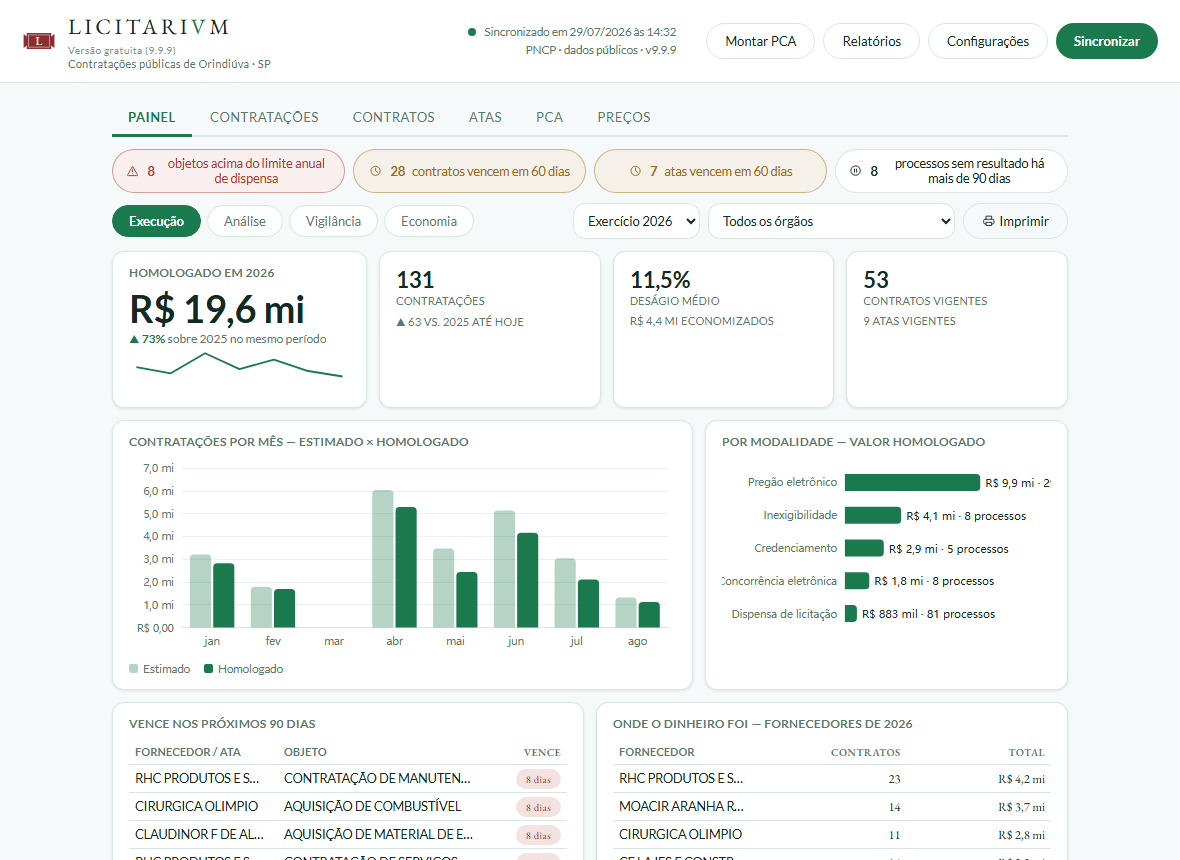
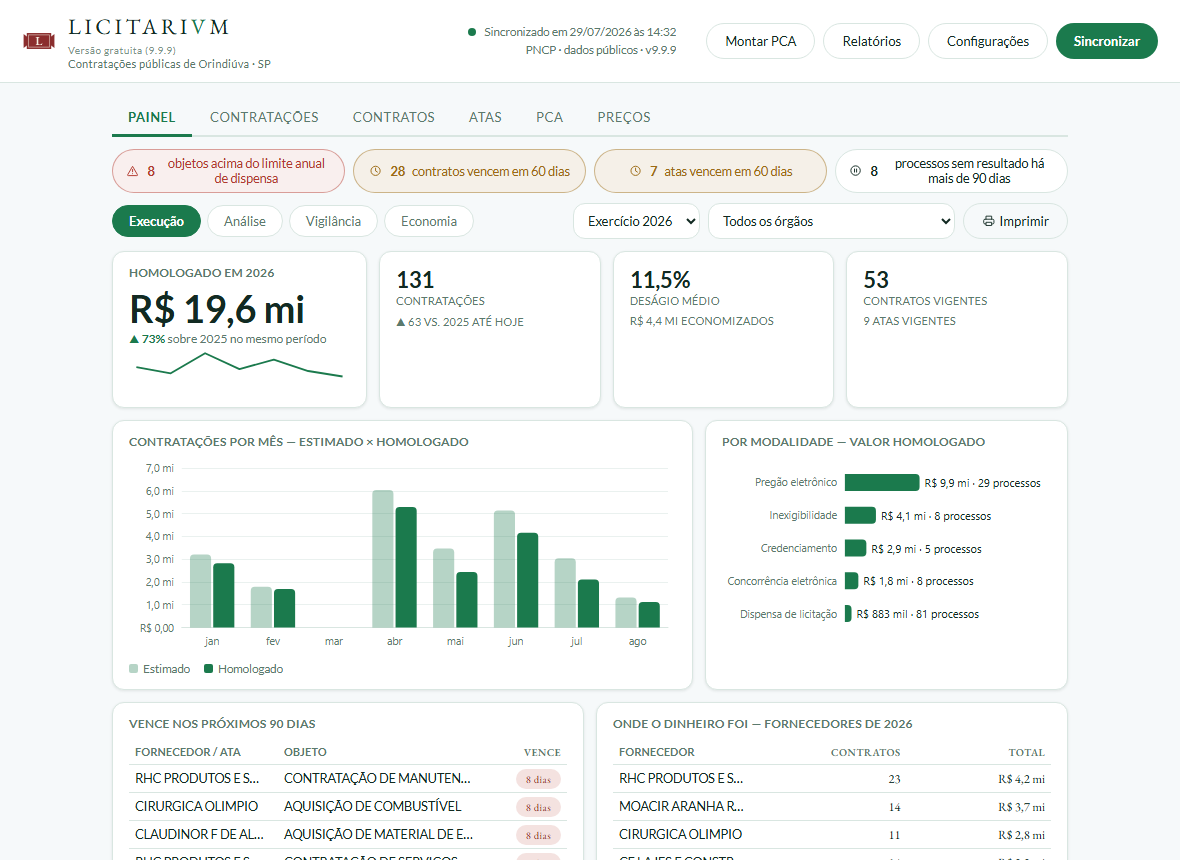
fix: rotulo de grafico nao escapa mais do cartao; botao sai da vista Economia
"Concorrencia - Eletronica" perdia o C na borda e "R$ 7,2 mi - 4 processos"
virava "- 4 proces", na tela e no PDF do painel (que captura o mesmo SVG).

Causa medida no Playwright, contra o painel real: o ECharts reserva espaco
medindo o texto (e o que containLabel usa) e ROT_TXT/VAL_TXT nao declaravam
fontFamily - ele media com a sans-serif padrao e desenhava com a --font-ui
do tema, mais larga, entao a reserva saia 4,1 px curta. A familia passa a
entrar pelo tema no _iniciarEchart, ponto unico dos 9 graficos.

A margem direita era `right: 70` fixo, e containLabel nao conta rotulo de
serie: sai medido do rotulo mais longo (transbordava ate 60,6 px). O rotulo
do eixo ganhou teto - "Servicos de Terceiros - Pessoa Juridica" comia 201 px
de um cartao de 294 e nao sobrava area de plotagem; texto inteiro segue no
tooltip. As pontas "hoje"/"+90 dias" da agenda ancoram para dentro.

Mesma correcao em app.js:desenharBarrasEcharts, que alimenta os relatorios
impressos; ali a familia vai literal, e nao herdada, porque o SVG capturado
vai parar num documento com CSS proprio.

Teste novo varre as 4 vistas e falha se qualquer texto ultrapassar a borda
do cartao; as 4 correcoes foram neutralizadas uma a uma e o teste mordeu nas
4. Medicao antes/depois: 6 graficos com transbordo -> nenhum.

Botao "Relatorio de economia e comparativos" sai da vista Economia a pedido
do usuario: duplicava a aba Relatorios e, por estar dentro da vista, era
[…]

Changed region(s): [[0.6102, 0.5442, 0.8847, 0.7256], [0.122, 0.5442, 0.1525, 0.7558], [0.6407, 0.5442, 0.7017, 0.6047]]

diff --git a/MANUAL.html b/MANUAL.html
@@ -2,11 +2,11 @@
 <html lang="pt-BR">
 <head>
 <meta charset="utf-8">
-<title>Manual Operacional — Licitarium Free v1.36.0</title>
+<title>Manual Operacional — Licitarium Free v1.37.0</title>
 <style>
   @page {
     size: A4; margin: 2cm 1.8cm;
-    @top-center { content: "Licitarium Free v1.36.0 — Manual Operacional"; font-size: 9pt; color: #6f5b3e; }
+    @top-center { content: "Licitarium Free v1.37.0 — Manual Operacional"; font-size: 9pt; color: #6f5b3e; }
     @bottom-right { content: "Página " counter(page) " de " counter(pages);
                     font-size: 9pt; color: #6f5b3e; }
   }
@@ -155,7 +155,7 @@
     <path d="M21.22 61.67Q21.16 61.67 21.12 61.65Q21.09 61.64 21.09 61.61Q21.09 61.58 21.13 61.56Q21.17 61.54 21.23 61.53Q21.35 61.5 21.42 61.41Q21.5 61.32 21.52 61.17Q21.57 60.82 21.61 60.47Q21.64 60.11 21.67 59.79Q21.7 59.47 21.71 59.22Q21.71 59.19 21.71 59.14Q21.71 59.1 21.71 59.06Q21.7 59.01 21.69 58.97Q21.67 58.93 21.62 58.89Q21.55 58.83 21.47 58.81Q21.4 58.78 21.3 58.76Q21.26 58.75 21.23 58.73Q21.2 58.7 21.2 58.67Q21.2 58.63 21.24 58.62Q21.28 58.61 21.34 58.61Q21.4 58.61 21.49 58.61Q21.59 58.62 21.71 58.63Q21.82 58.63 21.93 58.64Q22.03 58.64 22.1 58.64Q22.14 58.64 22.16 58.66Q22.19 58.69 22.2 58.72Q22.22 58.81 22.25 58.89Q22.27 58.98 22.31 59.07L23.02 60.84Q23.03 60.87 23.06 60.88Q23.09 60.88 23.11 60.85L23.93 59.08Q23.96 58.98 23.98 58.88Q24 58.78 24.02 58.71Q24.03 58.65 24.07 58.65H24.25Q24.41 58.64 24.59 58.63Q24.76 58.61 24.85 58.61Q24.89 58.61 24.92 58.62Q24.96 58.63 24.96 58.66Q24.96 58.7 24.93 58.71Q24.9 58.73 24.84 58.76Q24.79 58.77 24.73 58.8Q24.67 58.82 24.62 58.84Q24.55 58.88 24.51 58.93Q24.46 58.98 24.47 59.07Q24.47 59.4 24.48 59.67Q24.5 59.94 24.51 60.19Q24.52 60.43 24.54 60.68Q24.56 60.93 24.57 61.2Q24.58 61.34 24.67 61.41Q24.75 61.49 24.92 61.52Q24.98 61.54 25.02 61.56Q25.05 61.57 25.05 61.61Q25.05 61.64 25.02 61.65Q24.99 61.67 24.93 61.67Q24.82 61.67 24.72 61.66Q24.62 61.65 24.53 61.65Q24.43 61.64 24.33 61.64Q24.24 61.64 24.16 61.65Q24.08 61.65 23.99 61.66Q23.9 61.67 23.78 61.67Q23.73 61.67 23.7 61.65Q23.66 61.64 23.66 61.61Q23.66 61.58 23.7 61.55Q23.73 61.53 23.8 61.52Q23.95 61.5 24 61.43Q24.06 61.36 24.06 61.2Q24.05 60.88 24.04 60.61Q24.04 60.34 24.02 60.07Q24.01 59.8 24 59.51Q23.99 59.46 23.97 59.47Q23.95 59.47 23.93 59.51L22.93 61.66Q22.92 61.7 22.88 61.7Q22.84 61.69 22.83 61.66Q22.63 61.12 22.41 60.59Q22.19 60.07 21.95 59.5Q21.94 59.47 21.91 59.47Q21.89 59.47 21.88 59.51Q21.85 59.8 21.83 60.07Q21.8 60.34 21.79 60.61Q21.78 60.88 21.78 61.17Q21.78 61.3 21.86 61.39Q21.94 61.49 22.09 61.52Q22.16 61.54 22.2 61.55Q22.24 61.57 22.24 61.61Q22.24 61.64 22.2 61.65Q22.16 61.67 22.11 61.67Q21.99 61.67 21.92 61.66Q21.86 61.65 21.81 61.65Q21.75 61.65 21.66 61.65Q21.57 61.65 21.51 61.65Q21.44 61.66 21.37 61.66Q21.3 61.67 21.22 61.67ZM25.84 61.67Q25.78 61.67 25.75 61.65Q25.72 61.64 25.72 61.61Q25.72 61.58 25.75 61.56Q25.79 61.54 25.86 61.53Q25.97 61.5 26.05 61.41Q26.13 61.32 26.15 61.17Q26.19 60.82 26.23 60.47Q26.27 60.11 26.3 59.79Q26.32 59.47 26.33 59.22Q26.34 59.19 26.34 59.14Q26.34 59.1 26.33 59.06Q26.33 59.01 26.31 58.97Q26.3 58.93 26.25 58.89Q26.17 58.83 26.1 58.81Q26.03 58.78 25.93 58.76Q25.88 58.75 25.85 58.73Q25.82 58.7 25.82 58.67Q25.82 58.63 25.86 58.62Q25.91 58.61 25.97 58.61Q26.02 58.61 26.12 58.61Q26.22 58.62 26.33 58.63Q26.45 58.63 26.56 58.64Q26.66 58.64 26.73 58.64Q26.76 58.64 26.79 58.66Q26.82 58.69 26.82 58.72Q26.85 58.81 26.88 58.89Q26.9 58.98 26.93 59.07L27.65 60.84Q27.66 60.87 27.69 60.88Q27.72 60.88 27.73 60.85L28.56 59.08Q28.58 58.98 28.61 58.88Q28.63 58.78 28.64 58.71Q28.66 58.65 28.7 58.65H28.88Q29.04 58.64 29.21 58.63Q29.39 58.61 29.48 58.61Q29.51 58.61 29.55 58.62Q29.59 58.63 29.59 58.66Q29.59 58.7 29.56 58.71Q29.53 58.73 29.47 58.76Q29.42 58.77 29.36 58.8Q29.3 58.82 29.25 58.84Q29.17 58.88 29.13 58.93Q29.09 58.98 29.09 59.07Q29.1 59.4 29.11 59.67Q29.12 59.94 29.14 60.19Q29.15 60.43 29.17 60.68Q29.18 60.93 29.2 61.2Q29.21 61.34 29.3 61.41Q29.38 61.49 29.54 61.52Q29.61 61.54 29.65 61.56Q29.68 61.57 29.68 61.61Q29.68 61.64 29.65 61.65Q29.61 61.67 29.56 61.67Q29.44 61.67 29.34 61.66Q29.25 61.65 29.15 61.65Q29.06 61.64 28.96 61.64Q28.87 61.64 28.79 61.65Q28.71 61.65 28.62 61.66Q28.53 61.67 28.41 61.67Q28.36 61.67 28.32 61.65Q28.29 61.64 28.29 61.61Q28.29 61.58 28.32 61.55Q28.36 61.53 28.43 61.52Q28.57 61.5 28.63 61.43Q28.68 61.36 28.68 61.2Q28.68 60.88 28.67 60.61Q28.66 60.34 28.65 60.07Q28.64 59.8 28.63 59.51Q28.62 59.46 28.6 59.47Q28.58 59.47 28.56 59.51L27.56 61.66Q27.55 61.7 27.51 61.7Q27.47 61.69 27.46 61.66Q27.26 61.12 27.04 60.59Q26.82 60.07 26.58 59.5Q26.57 59.47 26.54 59.47Q26.52 59.47 26.51 59.51Q26.48 59.8 26.45 60.07Q26.43 60.34 26.42 60.61Q26.41 60.88 26.41 61.17Q26.41 61.3 26.49 61.39Q26.57 61.49 26.72 61.52Q26.79 61.54 26.83 61.55Q26.87 61.57 26.87 61.61Q26.87 61.64 26.83 61.65Q26.79 61.67 26.74 61.67Q26.61 61.67 26.55 61.66Q26.48 61.65 26.43 61.65Q26.38 61.65 26.29 61.65Q26.2 61.65 26.13 61.65Q26.07 61.66 26 61.66Q25.93 61.67 25.84 61.67ZM30.37 61.67Q30.31 61.67 30.27 61.66Q30.23 61.65 30.23 61.61Q30.23 61.58 30.27 61.56Q30.31 61.54 30.37 61.51Q30.46 61.49 30.57 61.44Q30.67 61.38 30.79 61.29Q30.9 61.2 31 61.07L31.58 60.35Q31.63 60.28 31.64 60.21Q31.66 60.14 31.59 60.05L30.96 59.16Q30.86 59.03 30.79 58.95Q30.71 58.87 30.63 58.83Q30.56 58.8 30.48 58.77Q30.41 58.75 30.37 58.73Q30.34 58.71 30.34 58.67Q30.34 58.64 30.37 58.63Q30.41 58.62 30.46 58.62Q30.61 58.62 30.81 58.63Q31.01 58.64 31.2 58.64Q31.34 58.64 31.47 58.63Q31.61 58.62 31.7 58.62Q31.75 58.62 31.79 58.64Q31.83 58.65 31.83 58.68Q31.83 58.72 31.79 58.74Q31.75 58.76 31.69 58.78Q31.56 58.81 31.5 58.84Q31.44 58.87 31.44 58.93Q31.44 59 31.56 59.18L31.99 59.77Q32.04 59.84 32.07 59.84Q32.1 59.84 32.14 59.78L32.59 59.18Q32.65 59.1 32.68 59.04Q32.71 58.98 32.71 58.93Q32.71 58.88 32.66 58.84Q32.61 58.8 32.5 58.78Q32.46 58.77 32.4 58.74Q32.35 58.72 32.35 58.68Q32.35 58.65 32.39 58.64Q32.43 58.63 32.49 58.63Q32.56 58.63 32.62 58.63Q32.68 58.63 32.74 58.63Q32.81 58.64 32.88 58.64Q33.02 58.64 33.15 58.62Q33.28 58.61 33.39 58.61Q33.45 58.61 33.49 58.62Q33.53 58.63 33.53 58.67Q33.53 58.7 33.49 58.72Q33.45 58.74 33.38 58.76Q33.26 58.79 33.12 58.93Q32.97 59.06 32.85 59.21L32.28 59.9Q32.22 59.97 32.21 60.01Q32.2 60.04 32.23 60.1L32.97 61.16Q33.06 61.29 33.18 61.39Q33.29 61.48 33.41 61.51Q33.48 61.53 33.52 61.55Q33.57 61.58 33.57 61.61Q33.57 61.64 33.53 61.66Q33.49 61.67 33.44 61.67Q33.33 61.67 33.21 61.66Q33.08 61.66 32.94 61.65Q32.81 61.64 32.69 61.64Q32.55 61.64 32.42 61.65Q32.29 61.65 32.19 61.65Q32.13 61.65 32.09 61.64Q32.05 61.62 32.05 61.59Q32.05 61.56 32.1 61.53Q32.15 61.51 32.2 61.5Q32.28 61.48 32.35 61.43Q32.42 61.38 32.42 61.29Q32.42 61.26 32.41 61.23Q32.4 61.19 32.37 61.16L31.89 60.45Q31.84 60.39 31.81 60.38Q31.78 60.38 31.75 60.43L31.19 61.17Q31.16 61.22 31.14 61.26Q31.13 61.3 31.13 61.33Q31.14 61.39 31.19 61.44Q31.25 61.49 31.34 61.51Q31.41 61.52 31.45 61.54Q31.49 61.57 31.49 61.6Q31.49 61.63 31.45 61.64Q31.42 61.66 31.36 61.66Q31.27 61.66 31.15 61.65Q31.03 61.65 30.92 61.65Q30.77 61.65 30.63 61.66Q30.49 61.67 30.37 61.67ZM34.14 61.67Q34.08 61.67 34.04 61.66Q34 61.65 34 61.61Q34 61.58 34.04 61.56Q34.08 61.54 34.14 61.51Q34.23 61.49 34.34 61.44Q34.44 61.38 34.56 61.29Q34.67 61.2 34.77 61.07L35.35 60.35Q35.4 60.28 35.41 60.21Q35.43 60.14 35.36 60.05L34.73 59.16Q34.63 59.03 34.56 58.95Q34.48 58.87 34.4 58.83Q34.33 58.8 34.25 58.77Q34.18 58.75 34.14 58.73Q34.11 58.71 34.11 58.67Q34.11 58.64 34.14 58.63Q34.18 58.62 34.23 58.62Q34.38 58.62 34.58 58.63Q34.78 58.64 34.97 58.64Q35.11 58.64 35.24 58.63Q35.38 58.62 35.47 58.62Q35.52 58.62 35.56 58.64Q35.6 58.65 35.6 58.68Q35.6 58.72 35.56 58.74Q35.52 58.76 35.46 58.78Q35.33 58.81 35.27 58.84Q35.21 58.87 35.21 58.93Q35.21 59 35.33 59.18L35.76 59.77Q35.81 59.84 35.84 59.84Q35.87 59.84 35.91 59.78L36.36 59.18Q36.42 59.1 36.45 59.04Q36.48 58.98 36.48 58.93Q36.48 58.88 36.43 58.84Q36.38 58.8 36.27 58.78Q36.23 58.77 36.18 58.74Q36.12 58.72 36.12 58.68Q36.12 58.65 36.16 58.64Q36.2 58.63 36.26 58.63Q36.33 58.63 36.39 58.63Q36.45 58.63 36.51 58.63Q36.58 58.64 36.65 58.64Q36.79 58.64 36.92 58.62Q37.05 58.61 37.16 58.61Q37.22 58.61 37.26 58.62Q37.3 58.63 37.3 58.67Q37.3 58.7 37.26 58.72Q37.22 58.74 37.15 58.76Q37.03 58.79 36.89 58.93Q36.74 59.06 36.62 59.21L36.05 59.9Q35.99 59.97 35.98 60.01Q35.97 60.04 36 60.1L36.74 61.16Q36.83 61.29 36.95 61.39Q37.06 61.48 37.18 61.51Q37.25 61.53 37.29 61.55Q37.34 61.58 37.34 61.61Q37.34 61.64 37.3 61.66Q37.26 61.67 37.21 61.67Q37.1 61.67 36.98 61.66Q36.85 61.66 36.71 61.65Q36.58 61.64 36.46 61.64Q36.32 61.64 36.19 61.65Q36.06 61.65 35.96 61.65Q35.9 61.65 35.86 61.64Q35.82 61.62 35.82 61.59Q35.82 61.56 35.87 61.53Q35.92 61.51 35.97 61.5Q36.05 61.48 36.12 61.43Q36.2 61.38 36.2 61.29Q36.2 61.26 36.18 61.23Q36.17 61.19 36.14 61.16L35.66 60.45Q35.61 60.39 35.58 60.38Q35.55 60.38 35.52 60.43L34.96 61.17Q34.93 61.22 34.91 61.26Q34.9 61.3 34.9 61.33Q34.91 61.39 34.96 61.44Q35.02 61.49 35.11 61.51Q35.18 61.52 35.22 61.54Q35.26 61.57 35.26 61.6Q35.26 61.63 35.22 61.64Q35.19 61.66 35.13 61.66Q35.04 61.66 34.92 61.65Q34.8 61.65 34.69 61.65Q34.54 61.65 34.4 61.66Q34.26 61.67 34.14 61.67ZM39.32 61.71Q39.27 61.71 39.25 61.66Q39.23 61.61 39.19 61.51Q39.16 61.41 39.13 61.34L38.26 59.11Q38.21 58.99 38.14 58.9Q38.06 58.81 37.93 58.78Q37.87 58.76 37.83 58.74Q37.79 58.71 37.79 58.68Q37.79 58.65 37.83 58.63Q37.86 58.62 37.92 58.62Q38 58.62 38.1 58.63Q38.2 58.63 38.31 58.63Q38.42 58.64 38.52 58.64Q38.61 58.64 38.72 58.63Q38.82 58.63 38.92 58.63Q39.02 58.62 39.08 58.62Q39.13 58.62 39.17 58.64Q39.21 58.65 39.21 58.68Q39.21 58.72 39.17 58.74Q39.13 58.77 39.07 58.78Q38.93 58.79 38.85 58.84Q38.78 58.88 38.78 58.96Q38.78 59.02 38.79 59.07Q38.81 59.12 38.82 59.15L39.46 60.88Q39.47 60.9 39.48 60.91Q39.5 60.91 39.51 60.87L40.11 59.3Q40.2 59.05 40.13 58.93Q40.06 58.8 39.89 58.78Q39.83 58.77 39.79 58.74Q39.74 58.72 39.74 58.68Q39.74 58.65 39.78 58.64Q39.82 58.63 39.88 58.63Q39.95 58.63 40.02 58.63Q40.09 58.63 40.17 58.63Q40.24 58.64 40.33 58.64Q40.47 58.64 40.61 58.63Q40.75 58.62 40.85 58.62Q40.91 58.62 40.95 58.63Q40.99 58.64 40.99 58.68Q40.99 58.71 40.95 58.73Q40.91 58.75 40.84 58.77Q40.68 58.81 40.58 58.92Q40.47 59.04 40.41 59.19L39.59 61.15Q39.56 61.23 39.52 61.32Q39.49 61.41 39.45 61.5Q39.42 61.59 39.38 61.66Q39.38 61.69 39.36 61.7Q39.34 61.71 39.32 61.71ZM41.59 61.67Q41.54 61.67 41.51 61.65Q41.47 61.64 41.47 61.61Q41.47 61.55 41.61 61.52Q41.78 61.49 41.87 61.42Q41.95 61.35 41.95 61.19V59.1Q41.95 58.94 41.89 58.87Q41.82 58.81 41.64 58.77Q41.51 58.75 41.51 58.68Q41.51 58.65 41.54 58.63Q41.58 58.62 41.63 58.62Q41.75 58.62 41.84 58.63Q41.93 58.63 42.02 58.63Q42.11 58.64 42.21 58.64Q42.31 58.64 42.4 58.63Q42.48 58.63 42.57 58.63Q42.66 58.62 42.78 58.62Q42.83 58.62 42.86 58.63Q42.9 58.65 42.9 58.68Q42.9 58.71 42.86 58.74Q42.83 58.76 42.76 58.77Q42.59 58.81 42.51 58.88Q42.44 58.94 42.44 59.1V61.19Q42.44 61.35 42.53 61.42Q42.61 61.48 42.79 61.52Q42.86 61.54 42.89 61.56Q42.92 61.57 42.92 61.61Q42.92 61.64 42.89 61.65Q42.86 61.67 42.81 61.67Q42.69 61.67 42.59 61.66Q42.5 61.65 42.41 61.65Q42.32 61.64 42.21 61.64Q42.1 61.64 42.01 61.65Q41.91 61.65 41.81 61.66Q41.71 61.67 41.59 61.67Z" fill="var(--text)" opacity=".85"/>
   </svg>
   <h1 class="mark">LICITARI<b>V</b>M</h1>
-  <div class="subtitulo">MANUAL DO USUÁRIO · VERSÃO 1.36.0</div>
+  <div class="subtitulo">MANUAL DO USUÁRIO · VERSÃO 1.37.0</div>
 </header>
 
 <h2>1. O que é o Licitarium</h2>
@@ -170,7 +170,7 @@ sincronizado e se atualiza sozinho a cada abertura. O Licitarium apenas
 <h2>2. Instalação</h2>
 <h3>Pelo executável (recomendado)</h3>
 <ol>
-  <li>Baixe o <code>Licitarium.Free.v1.36.0.exe</code> na página de releases do
+  <li>Baixe o <code>Licitarium.Free.v1.37.0.exe</code> na página de releases do
       projeto — o nome do arquivo traz a versão, então dá para saber qual
       você tem sem abrir o programa.</li>
   <li>Execute. Não precisa instalar, nem ter Python, nem direitos de administrador.</li>

diff --git a/ui/painel.js b/ui/painel.js
@@ -139,9 +139,28 @@ function ligarTooltips() {
 // ── ECharts: estilos de texto compartilhados, mesmos valores das classes
 // .rot/.val/.eixo de estilo.css — o SVG do ECharts não carrega classe CSS
 // (sai com style="" inline), então o valor precisa ir explícito aqui.
+// A família **precisa** ir junto: o ECharts mede o texto para reservar
+// espaço (é o que `containLabel` usa) com a fonte que ele acha que vale, e
+// sem `fontFamily` explícito ele calcula sobre a sans-serif padrão enquanto
+// o SVG desenha com a `--font-ui` do tema, mais larga. A reserva saía menor
+// que o rótulo e o "C" de "Concorrência - Eletrônica" era comido pela borda
+// do cartão — na tela e no PDF do painel, que captura o mesmo SVG.
+// Lida na hora de desenhar, não no carregamento: trocar de tema troca a
+// fonte, e o painel se redesenha inteiro nessa troca.
+const _fonteUI = () => getComputedStyle(document.body).fontFamily;
 const ROT_TXT = { fontSize: 10.5, color: "var(--muted)" };
 const VAL_TXT = { fontSize: 11, color: "var(--text)" };
 const COR_EIXO = "var(--border)";
+
+// Largura real de um texto, para dimensionar margem que `containLabel` não
+// cobre: rótulo de série (`label.position`) fica FORA da conta dele, então
+// `grid.right` fixo é chute — e chute errado corta "…· 4 processos".
+function _larguraTexto(txt, px) {
+  const ctx = (_larguraTexto._ctx ??=
+    document.createElement("canvas").getContext("2d"));
+  ctx.font = `${px}px ${_fonteUI()}`;
+  return ctx.measureText(txt).width;
+}
 
 // x/y do evento nativo do ECharts — mesma assinatura que mostrarTt já espera
 // (clientX, clientY), pra reusar o tooltip único sem reescrevê-lo.
@@ -155,7 +174,11 @@ function _ptEvento(params) {
 // uma só variável faria o dispose() de um derrubar o outro
 function _iniciarEchart(el) {
   if (el.__echart) { el.__echart.dispose(); el.__echart = null; }
-  const chart = echarts.init(el, null, { renderer: "svg" });
+  // A família entra como tema (ponto único), não gráfico a gráfico — ver o
+  // comentário de _fonteUI: sem ela o ECharts reserva espaço medindo com a
+  // sans-serif padrão e desenha com a fonte do tema, que é mais larga.
+  const chart = echarts.init(el, { textStyle: { fontFamily: _fonteUI() } },
+                             { renderer: "svg" });
   el.__echart = chart;
   return chart;
 }
@@ -215,15 +238,31 @@ function grafBarras(el, itens, {valor, rotulo, sub, cor = "var(--s1)"}, larg = 3
   }
   el.style.height = Math.max(120, itens.length * 36 + 20) + "px";
   const chart = _iniciarEchart(el);
+  const rotulosValor = itens.map(
+    it => compacto(valor(it)) + (sub ? " · " + sub(it) : ""));
+  // 5 px é a distância padrão entre o fim da barra e o rótulo; +3 de folga
+  // para o arredondamento da medição não deixar o último caractere na borda
+  const folgaDireita = Math.ceil(Math.max(
+    ...rotulosValor.map(t => _larguraTexto(t, VAL_TXT.fontSize)))) + 8;
+  // o que sobra do cartão depois do valor, com um terço reservado à barra:
+  // sem esse teto o rótulo do eixo cresce até engolir a área de plotagem
+  const larguraRotulo = Math.max(
+    64, Math.floor((el.clientWidth - folgaDireita) * 0.62));
   chart.setOption({
     animation: false,
-    grid: { left: 4, right: 70, top: 8, bottom: 8, containLabel: true },
+    grid: { left: 4, right: folgaDireita, top: 8, bottom: 8,
+            containLabel: true },
     xAxis: { type: "value", show: false },
     yAxis: { type: "category", inverse: true, data: itens.map(it => rotulo(it) ?? "–"),
-      axisLine: { show: false }, axisTick: { show: false }, axisLabel: ROT_TXT },
+      axisLine: { show: false }, axisTick: { show: false },
+      // Teto no rótulo do eixo: "Serviços de Terceiros - Pessoa Jurídica"
+      // sozinho comia 201 px de um cartão de 294 e não sobrava área de
+      // plotagem nenhuma — as barras sumiam e os valores caíam fora do
+      // cartão. O texto inteiro continua no tooltip do hover.
+      axisLabel: { ...ROT_TXT, width: larguraRotulo, overflow: "truncate" } },
     series: [{ type: "bar", barWidth: 17,
-      data: itens.map(it => ({ value: valor(it) || 0,
-        _rotuloValor: compacto(valor(it)) + (sub ? " · " + sub(it) : ""),
+      data: itens.map((it, i) => ({ value: valor(it) || 0,
+        _rotuloValor: rotulosValor[i],
         itemStyle: { color: cor, borderRadius: [0, 4, 4, 0] } })),
       emphasis: { disabled: true },
       label: { show: true, position: "right", ...VAL_TXT,
@@ -683,8 +722,12 @@ function grafAgenda(el, itens) {
 
   let g = `<line x1="${pxX(0)}" y1="${yBase}" x2="${pxX(90)}" y2="${yBase}"
              class="eixo" stroke-width="2"/>`;
+  // As duas pontas ancoram para dentro: centralizadas em pxX(0)/pxX(90),
+  // que são as bordas da grade, metade do "hoje" e do "+90 dias" caía fora
+  // do cartão. As marcas do meio seguem centralizadas no ponto.
   [0, 30, 60, 90].forEach(d =>
-    g += `<text class="rot" x="${pxX(d)}" y="${yBase + 30}" text-anchor="middle"
+    g += `<text class="rot" x="${pxX(d)}" y="${yBase + 30}"
+           text-anchor="${d === 0 ? "start" : d === 90 ? "end" : "middle"}"
            >${d ? `+${d} dias` : "hoje"}</text>`);
   // Largura estimada de cada caractere do rótulo (.val, 11px, maiúsculas —
   // texto em caixa alta é mais largo por caractere que caixa mista comum).
@@ -946,12 +989,7 @@ function vistaEconomia(d) {
            `Agrupado pelo CNPJ/CPF, não pelo nome — a mesma empresa aparece
             com grafias diferentes entre processos. Deságio alto não é
             atestado de bom fornecedor: pode ser estimativa inflada na
-            origem. Leia junto com a pesquisa de preços.`)}
-  <div class="macoes">
-    <button class="btn ghost" id="economia-relatorio">Relatório de economia
-      e comparativos</button>
-    <span class="dim" id="economia-status" role="status"></span>
-  </div>`;
+            origem. Leia junto com a pesquisa de preços.`)}`;
 }
 
 // ══ ciclo de vida ═════════════════════════════════════════════════════════
@@ -995,16 +1033,6 @@ async function carregarPainel() {
   $("p-analise").innerHTML = vistaAnalise(dados);
   $("p-vigilancia").innerHTML = vistaVigilancia(dados);
   $("p-economia").innerHTML = vistaEconomia(dados);
-  $("economia-relatorio")?.addEventListener("click", async () => {
-    const botao = $("economia-relatorio");
-    botao.disabled = true;
-    $("economia-status").textContent = "Gerando…";
-    const r = await api.gerar_relatorio("economia",
-      { ano: dados.ano, orgao: $("p-orgao").value || null });
-    botao.disabled = false;
-    $("economia-status").textContent = r.ok ? "Relatório aberto no navegador"
-                                             : (r.erro || "Falha ao gerar");
-  });
   desenharGraficos();
 }
 

diff --git a/ui/app.js b/ui/app.js
@@ -756,23 +756,49 @@ function _corTemaEchart(nome, fallback, paraImpressao) {
 // Usado nos 4 gráficos de Economia e no "por modalidade" do Executivo —
 // achado 2026-08-11: Economia/Executivo nunca tiveram vista na tela, iam
 // direto do banco pro papel; ganham motor aqui como Preços já ganhou.
+// Fonte declarada de propósito, e não herdada: o ECharts reserva espaço
+// medindo o texto, e sem `fontFamily` ele mede com a sans-serif padrão e
+// desenha com outra — a reserva saía curta e o rótulo era cortado pela
+// borda. No caminho impresso ela ainda pina a fonte dentro do SVG
+// capturado, que vai parar num documento com CSS próprio.
+const FONTE_GRAFICO = "'Public Sans', system-ui, -apple-system, sans-serif";
+
+function _larguraTextoGrafico(txt, px) {
+  const ctx = (_larguraTextoGrafico._ctx ??=
+    document.createElement("canvas").getContext("2d"));
+  ctx.font = `${px}px ${FONTE_GRAFICO}`;
+  return ctx.measureText(txt).width;
+}
+
 function desenharBarrasEcharts(el, itens, { valor, rotulo, sub }) {
   if (!window.echarts || !itens || !itens.length) { el.innerHTML = ""; return; }
   const s1 = _corTemaEchart("--s1", "#2a78d6", true), muted = _corTemaEchart("--muted", "#5b6066", true);
   if (el.__echart) { el.__echart.dispose(); el.__echart = null; }
-  const chart = echarts.init(el, null, { renderer: "svg" });
+  const chart = echarts.init(el, { textStyle: { fontFamily: FONTE_GRAFICO } },
+                             { renderer: "svg" });
   el.__echart = chart;
   el.style.height = Math.max(120, itens.length * 36 + 30) + "px";
+  const rotulosValor = itens.map(
+    it => compacto(valor(it)) + (sub ? " · " + sub(it) : ""));
+  // `containLabel` não conta o rótulo de série: a margem direita precisa
+  // caber o mais largo deles, senão "· 4 processos" sai pela borda
+  const folgaDireita = Math.ceil(Math.max(
+    ...rotulosValor.map(t => _larguraTextoGrafico(t, 11)))) + 8;
+  const larguraRotulo = Math.max(
+    64, Math.floor((el.clientWidth - folgaDireita) * 0.62));
   chart.setOption({
     animation: false,
-    grid: { left: 4, right: 70, top: 8, bottom: 8, containLabel: true },
+    grid: { left: 4, right: folgaDireita, top: 8, bottom: 8,
+            containLabel: true },
     xAxis: { type: "value", show: false },
     yAxis: { type: "category", inverse: true, data: itens.map(it => rotulo(it) ?? "–"),
       axisLine: { show: false }, axisTick: { show: false },
-      axisLabel: { color: muted, fontSize: 11 } },
+      // sem teto, rótulo comprido engole a área de plotagem inteira
+      axisLabel: { color: muted, fontSize: 11, width: larguraRotulo,
+                   overflow: "truncate" } },
     series: [{ type: "bar", barWidth: 17,
-      data: itens.map(it => ({ value: valor(it) || 0,
-        _rotuloValor: compacto(valor(it)) + (sub ? " · " + sub(it) : ""),
+      data: itens.map((it, i) => ({ value: valor(it) || 0,
+        _rotuloValor: rotulosValor[i],
         itemStyle: { color: s1, borderRadius: [0, 4, 4, 0] } })),
       label: { show: true, position: "right", color: muted, fontSize: 11,
         formatter: p => p.data._rotuloValor } }]

diff --git a/tests-e2e/painel.spec.js b/tests-e2e/painel.spec.js
@@ -241,16 +241,13 @@ test("economia fica lembrada como as outras subabas", async ({ page }) => {
   expect(salvo.v).toBe("economia");
 });
 
-test("botão de relatório da vista economia chama gerar_relatorio",
-    async ({ page }) => {
+test("a vista economia não repete o botão de relatório", async ({ page }) => {
+  // o atalho saiu do painel a pedido do usuário; o relatório continua
+  // inteiro na aba Relatórios, e é essa saída que não pode sumir junto
   await page.locator('.subabas button[data-vista="economia"]').click();
-  await page.locator("#economia-relatorio").click();
-  const chamada = await page.evaluate(() => window.__chamadas
-    .filter(c => c.metodo === "gerar_relatorio").pop());
-  expect(chamada.tipo).toBe("economia");
-  expect(chamada.params.ano).toBe(2026);
-  await expect(page.locator("#economia-status"))
-    .toContainText("aberto no navegador");
+  await expect(page.locator("#economia-relatorio")).toHaveCount(0);
+  await expect(page.locator('#rel-tipo option[value="economia"]'))
+    .toHaveCount(1);
 });
 
 test("vigilância mostra medidores, funil e agenda", async ({ page }) => {
@@ -576,4 +573,31 @@ test("falha na consulta explica em vez de deixar a tela muda",
   await expect(page.locator("#p-execucao")).toContainText("Não consegui montar");
   await expect(page.locator("#p-execucao")).toContainText("database is locked");
   await expect(page.locator("#painel")).not.toHaveClass(/carregando/);
+});
+
+test("nenhum rótulo de gráfico escapa do cartão, nas quatro vistas",
+    async ({ page }) => {
+  // O ECharts reserva espaço medindo o texto; sem `fontFamily` declarado ele
+  // media com a sans-serif padrão e desenhava com a fonte do tema, mais
+  // larga — "Concorrência - Eletrônica" perdia o "C" e "· 4 processos"
+  // saía pela direita, na tela E no PDF do painel, que captura o mesmo SVG.
+  const transbordos = () => page.evaluate(() => {
+    const fora = [];
+    document.querySelectorAll(".vista:not(.oculto) .graf[data-graf]")
+      .forEach(el => {
+        const cx = el.getBoundingClientRect();
+        el.querySelectorAll("text").forEach(t => {
+          const r = t.getBoundingClientRect();
+          if (cx.left - r.left > 0.5 || r.right - cx.right > 0.5)
+            fora.push(`${el.dataset.graf}: ${t.textContent.slice(0, 24)}`);
+        });
+      });
+    return fora;
+  });
+
+  for (const v of ["execucao", "analise", "vigilancia", "economia"]) {
+    if (v !== "execucao")
+      await page.locator(`.subabas button[data-vista="${v}"]`).click();
+    await expect.poll(transbordos, { message: `vista ${v}` }).toEqual([]);
+  }
 });

diff --git a/tests-e2e/acessibilidade.spec.js b/tests-e2e/acessibilidade.spec.js
@@ -49,11 +49,8 @@ test("todo gráfico tem nome acessível e não esconde os rótulos",
 
 test("as mensagens dinâmicas são regiões vivas", async ({ page }) => {
   // são o único canal de retorno, inclusive dos erros
-  for (const id of ["sync-msg", "brasao-status"])
+  for (const id of ["sync-msg", "brasao-status", "pca-status"])
     await expect(page.locator(`#${id}`)).toHaveAttribute("role", "status");
-  await page.locator('.subabas button[data-vista="economia"]').click();
-  await expect(page.locator("#economia-status"))
-    .toHaveAttribute("role", "status");
 });
 
 test("o checkbox da linha não é filho de um botão", async ({ page }) => {

diff --git a/ui/index.html b/ui/index.html
@@ -223,7 +223,8 @@
       <button class="btn ghost" id="pca-mesclar" disabled>⚯ Mesclar selecionados</button>
       <button class="btn ghost" id="pca-csv">Exportar CSV</button>
       <button class="btn ghost" id="pca-relatorio">Relatório da minuta</button>
-      <span class="dim" id="pca-status" style="align-self:center"></span>
+      <span class="dim" id="pca-status" role="status"
+            style="align-self:center"></span>
     </div>
   </div>
 </div>

diff --git a/licitarium.py b/licitarium.py
@@ -28,7 +28,7 @@ import pca_builder
 import pncp
 import relatorios
 
-VERSAO = "1.36.0"
+VERSAO = "1.37.0"
 # dentro do exe onefile os arquivos ficam na pasta temporária do bundle;
 # _MEIPASS é o caminho oficial para chegar até eles
 DIR_APP = Path(getattr(sys, "_MEIPASS", Path(__file__).resolve().parent))

diff --git a/CHANGELOG.md b/CHANGELOG.md
@@ -1,5 +1,39 @@
 # Changelog
 
+## 1.37.0 — 2026-08-14
+
+**Nome de modalidade não é mais cortado no gráfico**
+
+"Concorrência - Eletrônica" perdia o **C** na borda do cartão, e do outro
+lado "R$ 7,2 mi · 4 processos" virava "· 4 proces". Acontecia na tela e no
+PDF do painel, que captura o mesmo desenho.
+
+A causa: o motor de gráficos reserva o espaço do texto medindo-o antes de
+desenhar, e sem a fonte declarada ele media com uma fonte e desenhava com
+outra, mais larga — a reserva saía curta. A margem da direita, além disso,
+era um número fixo que não sabia o tamanho do rótulo que ia caber ali.
+Agora a fonte vai declarada e a margem sai da medida do rótulo mais longo.
+
+Aproveitando a mesma passada, três outros gráficos que também deixavam
+texto escapar do cartão foram corrigidos: deságio por modalidade, mapa de
+calor e a linha do tempo de vencimentos (as marcas "hoje" e "+90 dias"
+ficavam metade para fora). Nome muito comprido de categoria ou fornecedor
+passa a ser cortado com reticências em vez de engolir o gráfico inteiro —
+o nome completo continua aparecendo ao passar o mouse.
+
+Há teste que varre as quatro vistas e falha se **qualquer** texto de
+gráfico ultrapassar a borda do cartão.
+
+**O botão de relatório saiu da vista Economia**
+
+Ele duplicava o que a aba **Relatórios** já oferece, e — por estar dentro
+da vista — era impresso junto no PDF do painel, onde um botão não tem
+função nenhuma. O relatório *Economia e Comparativos* segue inteiro em
+**Relatórios**.
+
+**A mensagem de status do PCA passa a ser anunciada** por leitor de tela,
+como as demais mensagens dinâmicas do programa já eram.
+
 ## 1.36.0 — 2026-08-14
 
 **Uma consulta que cai não leva a sincronização inteira junto**
